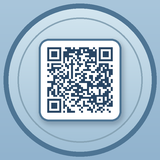
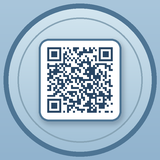
Eigene Domain josija-nydegger.ch
- CNAME für GitHub Pages
- url in _config.yml, Link-Vorschau und Links der Tools, QR-tool-Demo und README auf die neue Domain
- QR-Code-Icon mit neuer Adresse
- CLAUDE.md: Domain, DNS und Hinweise

Changed region(s): [[0.2812, 0.2812, 0.7188, 0.7188]]

diff --git a/tools/balken/index.html b/tools/balken/index.html
@@ -6,14 +6,14 @@
 <script>try{var t=localStorage.getItem("theme");if(t==="light"||t==="dark")document.documentElement.dataset.theme=t}catch(e){}</script>
 <title>Balken mit Auskragung | Josija Nydegger</title>
 <!-- Link-Vorschau (LinkedIn, WhatsApp usw.) und Suchmaschinen; Tool-Seiten haben kein Front Matter, darum von Hand -->
-<link rel="canonical" href="https://josija-nydegger.github.io/tools/balken/">
+<link rel="canonical" href="https://josija-nydegger.ch/tools/balken/">
 <meta property="og:type" content="website">
 <meta property="og:site_name" content="Josija Nydegger">
 <meta property="og:locale" content="de_CH">
 <meta property="og:title" content="Balken mit Auskragung | Josija Nydegger">
 <meta property="og:description" content="Querkraft, Biegemoment, Durchbiegung und Auflagerkräfte für Einfeld- und Durchlaufträger mit Kragarmen, Punkt- und Linienlasten, mit Rechenweg.">
-<meta property="og:url" content="https://josija-nydegger.github.io/tools/balken/">
-<meta property="og:image" content="https://josija-nydegger.github.io/images/og-image.jpg">
+<meta property="og:url" content="https://josija-nydegger.ch/tools/balken/">
+<meta property="og:image" content="https://josija-nydegger.ch/images/og-image.jpg">
 <meta property="og:image:width" content="1200">
 <meta property="og:image:height" content="630">
 <meta name="twitter:card" content="summary_large_image">
@@ -23,7 +23,7 @@
 <link rel="icon" href="/favicon-32.png" sizes="32x32" type="image/png">
 <link rel="apple-touch-icon" href="/apple-touch-icon.png">
 <style>
-/* Layout: ruhige Seite im Stil von josija-nydegger.github.io. Tabs oben, darunter Eingaben links,
+/* Layout: ruhige Seite im Stil von josija-nydegger.ch. Tabs oben, darunter Eingaben links,
    Zeichnung und Ergebnisse rechts; auf dem Handy untereinander. Trennung durch Linien statt Karten. */
 :root{
   --bg:#fcfcfb; --text:#1a1a1a; --muted:#6b6a66; --border:#e7e6e2; --accent:#1a1a1a; --tag-bg:#f1f0ed;
@@ -287,7 +287,7 @@ footer a:hover{color:var(--text)}
   <footer>
     <p><strong>Hinweis:</strong> Hilfsmittel für Studium und Vordimensionierung. Es ersetzt keine Prüfung durch eine fachkundige Person.</p>
     <div class="foot-row">
-      <p>© 2026 Josija Nydegger - <a href="https://github.com/josija-nydegger">GitHub</a> - <a href="https://josija-nydegger.github.io/">Website</a></p>
+      <p>© 2026 Josija Nydegger - <a href="https://github.com/josija-nydegger">GitHub</a> - <a href="https://josija-nydegger.ch/">Website</a></p>
       <div class="theme" role="group" aria-label="Farbschema" hidden>
         <button type="button" data-theme="light" aria-label="Hell" title="Hell">
           <svg viewBox="0 0 24 24" fill="none" stroke="currentColor" stroke-width="2" stroke-linecap="round" stroke-linejoin="round" aria-hidden="true"><circle cx="12" cy="12" r="4"/><path d="M12 2v2M12 20v2m-7.07-17.07 1.41 1.41m11.32 11.32 1.41 1.41M2 12h2m16 0h2M6.34 17.66l-1.41 1.41M19.07 4.93l-1.41 1.41"/></svg>

diff --git a/tools/querschnittswerte/index.html b/tools/querschnittswerte/index.html
@@ -6,14 +6,14 @@
 <script>try{var t=localStorage.getItem("theme");if(t==="light"||t==="dark")document.documentElement.dataset.theme=t}catch(e){}</script>
 <title>Querschnittswerte | Josija Nydegger</title>
 <!-- Link-Vorschau (LinkedIn, WhatsApp usw.) und Suchmaschinen; Tool-Seiten haben kein Front Matter, darum von Hand -->
-<link rel="canonical" href="https://josija-nydegger.github.io/tools/querschnittswerte/">
+<link rel="canonical" href="https://josija-nydegger.ch/tools/querschnittswerte/">
 <meta property="og:type" content="website">
 <meta property="og:site_name" content="Josija Nydegger">
 <meta property="og:locale" content="de_CH">
 <meta property="og:title" content="Querschnittswerte | Josija Nydegger">
 <meta property="og:description" content="Fläche, Schwerpunkt, Trägheits- und Widerstandsmomente (elastisch und plastisch) für Standard- und zusammengesetzte Querschnitte, mit Rechenweg.">
-<meta property="og:url" content="https://josija-nydegger.github.io/tools/querschnittswerte/">
-<meta property="og:image" content="https://josija-nydegger.github.io/images/og-image.jpg">
+<meta property="og:url" content="https://josija-nydegger.ch/tools/querschnittswerte/">
+<meta property="og:image" content="https://josija-nydegger.ch/images/og-image.jpg">
 <meta property="og:image:width" content="1200">
 <meta property="og:image:height" content="630">
 <meta name="twitter:card" content="summary_large_image">
@@ -23,7 +23,7 @@
 <link rel="icon" href="/favicon-32.png" sizes="32x32" type="image/png">
 <link rel="apple-touch-icon" href="/apple-touch-icon.png">
 <style>
-  /* Farben und Typografie wie style.css der Website (josija-nydegger.github.io).
+  /* Farben und Typografie wie style.css der Website (josija-nydegger.ch).
      Zusätzliche Farben nur für die Zeichnung und Fehlermeldungen. */
   :root {
     color-scheme: light dark;
@@ -270,7 +270,7 @@
   <footer>
     <p><strong>Hinweis:</strong> Hilfsmittel für Studium und Vordimensionierung. Es ersetzt keine Prüfung durch eine fachkundige Person.</p>
     <div class="foot-row">
-      <p>© 2026 Josija Nydegger - <a href="https://github.com/josija-nydegger">GitHub</a> - <a href="https://josija-nydegger.github.io/">Website</a></p>
+      <p>© 2026 Josija Nydegger - <a href="https://github.com/josija-nydegger">GitHub</a> - <a href="https://josija-nydegger.ch/">Website</a></p>
       <div class="theme" role="group" aria-label="Farbschema" hidden>
         <button type="button" data-theme="light" aria-label="Hell" title="Hell">
           <svg viewBox="0 0 24 24" fill="none" stroke="currentColor" stroke-width="2" stroke-linecap="round" stroke-linejoin="round" aria-hidden="true"><circle cx="12" cy="12" r="4"/><path d="M12 2v2M12 20v2m-7.07-17.07 1.41 1.41m11.32 11.32 1.41 1.41M2 12h2m16 0h2M6.34 17.66l-1.41 1.41M19.07 4.93l-1.41 1.41"/></svg>

diff --git a/en/index.html b/en/index.html
@@ -84,7 +84,7 @@ description: Personal website of Josija Nydegger – civil engineering student a
         <p class="item-sub">Prototype for one-way, network-free data transfer from a computer to a smartphone using a sequence of QR codes, with optional AES-256 encryption and fountain codes to recover lost frames.</p>
         <div class="tags">
           <a class="tag" href="https://github.com/josija-nydegger/QR-tool" target="_blank" rel="noopener">Code</a>
-          <a class="tag" href="https://josija-nydegger.github.io/QR-tool/QR-Reader.html" target="_blank" rel="noopener">Demo</a>
+          <a class="tag" href="https://josija-nydegger.ch/QR-tool/QR-Reader.html" target="_blank" rel="noopener">Demo</a>
           <span class="tag">HTML / JavaScript</span>
         </div>
       </li>

diff --git a/index.html b/index.html
@@ -82,7 +82,7 @@ ref: home
         <p class="item-sub">Prototyp für einseitige, netzwerkfreie Datenübertragung vom Computer aufs Smartphone über eine Folge von QR-Codes, mit optionaler AES-256-Verschlüsselung und Fountain-Codes gegen verlorene Frames.</p>
         <div class="tags">
           <a class="tag" href="https://github.com/josija-nydegger/QR-tool" target="_blank" rel="noopener">Code</a>
-          <a class="tag" href="https://josija-nydegger.github.io/QR-tool/QR-Reader.html" target="_blank" rel="noopener">Demo</a>
+          <a class="tag" href="https://josija-nydegger.ch/QR-tool/QR-Reader.html" target="_blank" rel="noopener">Demo</a>
           <span class="tag">HTML / JavaScript</span>
         </div>
       </li>

diff --git a/CLAUDE.md b/CLAUDE.md
@@ -1,7 +1,9 @@
 # CLAUDE.md
 
 Persönliche Website von Josija Nydegger (Bauingenieurwesen, BIM, Digital Construction).
-Live: <https://josija-nydegger.github.io> · gehostet mit GitHub Pages (Jekyll, Build direkt durch GitHub).
+Live: <https://josija-nydegger.ch> · gehostet mit GitHub Pages (Jekyll, Build direkt durch GitHub).
+
+**Domain:** `josija-nydegger.ch`, registriert bei Infomaniak (dort auch DNS, DNSSEC aktiv). DNS: 4× A und 4× AAAA für `@` auf die GitHub-Pages-Adressen, CNAME `www` → `josija-nydegger.github.io`, TXT `_github-pages-challenge-josija-nydegger` (Domain in GitHub bestätigt). Die übrigen Einträge (MX, SPF, DKIM, DMARC, SRV, autoconfig) sind für E-Mail und bleiben. Die Datei `CNAME` im Repo enthält die Domain: **nicht löschen**. Alte Adressen unter `josija-nydegger.github.io` leiten automatisch auf die Domain um. Absolute Adressen immer mit `https://josija-nydegger.ch` schreiben (bzw. `site.url` aus `_config.yml`). Falls die DNS-Verwaltung je umzieht: DNSSEC vorher ausschalten.
 
 ## Grundsätze
 
@@ -43,6 +45,7 @@ assets/katex/        KaTeX 0.16.11 (MIT) für LaTeX-Formeln im Blog, nur .woff2-
 images/              profil.jpg, og-image.jpg (Link-Vorschau 1200×630), projekte/ für Projekt-Icons, blog/ für Beitragsbilder
 arbeiten/            PDFs von Arbeiten (Projekt-, Bachelorarbeiten), nur im Original
 favicon.svg, favicon-32.png, apple-touch-icon.png
+CNAME                Eigene Domain für GitHub Pages (nicht löschen)
 ANLEITUNG.md         Anleitung für PDF-Uploads (nicht veröffentlicht)
 README.md            Beschreibung für das GitHub-Repo (nicht veröffentlicht)
 ```

diff --git a/README.md b/README.md
@@ -1,8 +1,8 @@
-# josija-nydegger.github.io
+# josija-nydegger.ch
 
 Persönliche Website von **Josija Nydegger**: Bauingenieurwesen, BIM und Digital Construction.
 
-**Live:** <https://josija-nydegger.github.io> · English: <https://josija-nydegger.github.io/en/>
+**Live:** <https://josija-nydegger.ch> · English: <https://josija-nydegger.ch/en/>
 
 ## Inhalt
 
@@ -10,7 +10,7 @@ Persönliche Website von **Josija Nydegger**: Bauingenieurwesen, BIM und Digital
 - Lebenslauf, im Browser direkt als PDF speicherbar
 - Zweisprachig: Deutsch (Hauptsprache) und Englisch unter `/en/`
 - Helles und dunkles Design, folgt standardmässig der Systemeinstellung
-- RSS-Feeds: [`/feed.xml`](https://josija-nydegger.github.io/feed.xml) (DE) und [`/en/feed.xml`](https://josija-nydegger.github.io/en/feed.xml) (EN)
+- RSS-Feeds: [`/feed.xml`](https://josija-nydegger.ch/feed.xml) (DE) und [`/en/feed.xml`](https://josija-nydegger.ch/en/feed.xml) (EN)
 
 ## Technik
 

diff --git a/ANLEITUNG.md b/ANLEITUNG.md
@@ -1,6 +1,6 @@
 # Anleitung: Arbeit als PDF auf der Website veröffentlichen
 
-Website: <https://josija-nydegger.github.io>
+Website: <https://josija-nydegger.ch>
 Repository: `josija-nydegger/josija-nydegger.github.io`
 
 ## 1. PDF vorbereiten
